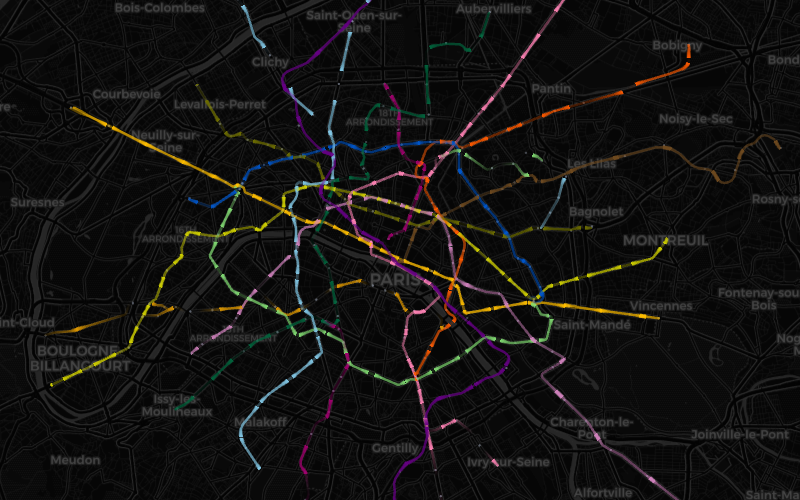
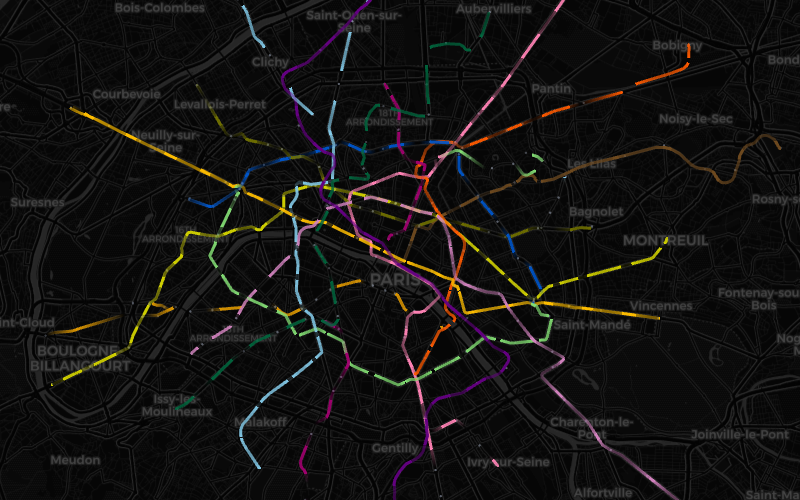
fix: stale url params across client navs, air clock timezone, about copy

diff --git a/apps/site/src/components/AirMap.tsx b/apps/site/src/components/AirMap.tsx
@@ -21,7 +21,10 @@ interface AirStation {
 
 interface AirMeta {
   stations: AirStation[];
-  pollutants: Record<string, { years: Record<string, number> }>;
+  pollutants: Record<
+    string,
+    { years: Record<string, { hours: number; start: number }> }
+  >;
 }
 
 // playback speeds: simulated hours per real second
@@ -78,9 +81,9 @@ function readParams() {
     time: p.get("t") ? +p.get("t")! : 8, // hours since Jan 1
   };
 }
-const params = readParams();
-
 export default function AirMap() {
+  // read once per mount (module-level reads go stale across client navs)
+  const [params] = useState(readParams);
   const containerRef = useRef<HTMLDivElement>(null);
   const clockRef = useRef<HTMLDivElement>(null);
   const sliderRef = useRef<HTMLInputElement>(null);
@@ -90,6 +93,7 @@ export default function AirMap() {
     poll: Poll;
     year: number;
     hours: number;
+    start: number;
     values: Uint8Array;
   } | null>(null);
   const [error, setError] = useState<string | null>(null);
@@ -132,8 +136,8 @@ export default function AirMap() {
   // load the selected pollutant/year series
   useEffect(() => {
     if (!meta) return;
-    const hours = meta.pollutants[poll]?.years[year];
-    if (!hours) return;
+    const info = meta.pollutants[poll]?.years[year];
+    if (!info) return;
     setSeries(null);
     const requested = { poll, year };
     fetch(`/air/${poll}-${year}.bin`)
@@ -144,8 +148,14 @@ export default function AirMap() {
       .then((buf) => {
         if (pollRef.current !== requested.poll || yearRef.current !== requested.year)
           return;
-        setSeries({ poll, year, hours, values: new Uint8Array(buf) });
-        timeRef.current = Math.min(timeRef.current, hours - 2);
+        setSeries({
+          poll,
+          year,
+          hours: info.hours,
+          start: info.start,
+          values: new Uint8Array(buf),
+        });
+        timeRef.current = Math.min(timeRef.current, info.hours - 2);
       })
       .catch((e: Error) => setError(e.message));
   }, [meta, poll, year]);
@@ -287,16 +297,18 @@ export default function AirMap() {
       }
       const t = timeRef.current;
       if (clockRef.current) {
-        const date = new Date(
-          Date.UTC(yearRef.current, 0, 1) + Math.floor(t) * 3600e3,
-        );
+        const start = seriesRef.current?.start;
         const locale = langRef.current === "fr" ? "fr-FR" : "en-GB";
-        clockRef.current.textContent =
-          date.toLocaleDateString(locale, {
-            weekday: "short",
-            day: "numeric",
-            month: "short",
-          }) + ` · ${String(date.getUTCHours()).padStart(2, "0")}:00`;
+        clockRef.current.textContent = start
+          ? new Date(start + Math.floor(t) * 3600e3).toLocaleString(locale, {
+              timeZone: "Europe/Paris",
+              weekday: "short",
+              day: "numeric",
+              month: "short",
+              hour: "2-digit",
+              minute: "2-digit",
+            })
+          : "--";
       }
       if (sliderRef.current && document.activeElement !== sliderRef.current)
         sliderRef.current.value = String(Math.round(t));
@@ -415,13 +427,15 @@ export default function AirMap() {
     timeRef.current = f * hours;
   };
 
-  // lockdown story: 17 March 2020, 08:00 (NO2 collapses within days)
+  // lockdown story: 17 March 2020, 08:00 Paris (NO2 collapses within days)
   const lockdown = () => {
+    const start = meta?.pollutants.no2?.years[2020]?.start;
+    if (!start) return;
     setPoll("no2");
     setYear(2020);
     setPlaying(true);
     setSpeed(24);
-    timeRef.current = (31 + 29 + 16) * 24 + 8;
+    timeRef.current = Math.max(0, (Date.UTC(2020, 2, 17, 7) - start) / 3600e3);
   };
 
   return (

diff --git a/apps/site/src/lib/siteStrings.ts b/apps/site/src/lib/siteStrings.ts
@@ -9,8 +9,8 @@ export const SITE: Record<
     tagline: string;
     fluxTitle: string;
     fluxDesc: string;
-    pulseTitle: string;
-    pulseDesc: string;
+    airTitle: string;
+    airDesc: string;
     noctTitle: string;
     noctDesc: string;
     aboutTitle: string;
@@ -24,15 +24,15 @@ export const SITE: Record<
     fluxTitle: "Flux - the transit network in motion",
     fluxDesc:
       "Every scheduled trip of a full day moves across the map: 20,000 métro, RER and tram runs, plus 90,000 buses one checkbox away.",
-    pulseTitle: "Respire - the air you breathe",
-    pulseDesc:
+    airTitle: "Respire - the air you breathe",
+    airDesc:
       "Seven years of hourly air quality breathing over the map: winter smog, clean windy days, and the 2020 lockdown clearing the sky in a week.",
     noctTitle: "Noctilien - night buses",
     noctDesc:
       "Heatmap of night-bus frequency: which neighbourhoods are served after midnight, and which are not.",
     aboutTitle: "About the data",
     aboutBody:
-      "Everything on this site is built from open data: scheduled timetables (GTFS) and ticket validation counts published by Île-de-France Mobilités, station and stop locations from the same portal, and the national address base for geocoding. Nothing is tracked and there is no backend: each visualization is precomputed into a static file, and each page shows the exact period its data covers.",
+      "Everything on this site is built from open data: scheduled timetables (GTFS) published by Île-de-France Mobilités, hourly air quality measurements from Airparif, and the national address base for geocoding. Nothing is tracked and there is no backend: each visualization is precomputed into a static file, and each page shows the exact period its data covers.",
     aboutRefresh:
       "Data is regenerated automatically twice a month, since published timetables only cover about 30 days ahead.",
   },
@@ -42,15 +42,15 @@ export const SITE: Record<
     fluxTitle: "Flux - le réseau en mouvement",
     fluxDesc:
       "Tous les trajets d'une journée se déplacent sur la carte : 20 000 courses de métro, RER et tramway, et 90 000 bus en option.",
-    pulseTitle: "Respire - l'air que vous respirez",
-    pulseDesc:
+    airTitle: "Respire - l'air que vous respirez",
+    airDesc:
       "Sept ans de qualité de l'air horaire qui respirent sur la carte : smog d'hiver, journées de vent, et le confinement 2020 qui purifie le ciel en une semaine.",
     noctTitle: "Noctilien - bus de nuit",
     noctDesc:
       "Carte de chaleur de la fréquence des bus de nuit : quels quartiers sont desservis après minuit, et lesquels ne le sont pas.",
     aboutTitle: "À propos des données",
     aboutBody:
-      "Tout ce site repose sur des données ouvertes : les horaires théoriques (GTFS) et les comptages de validations publiés par Île-de-France Mobilités, les emplacements des gares et arrêts du même portail, et la Base Adresse Nationale pour le géocodage. Aucun suivi, aucun backend : chaque visualisation est précalculée dans un fichier statique, et chaque page affiche la période exacte couverte par ses données.",
+      "Tout ce site repose sur des données ouvertes : les horaires théoriques (GTFS) publiés par Île-de-France Mobilités, les mesures horaires de qualité de l'air d'Airparif, et la Base Adresse Nationale pour le géocodage. Aucun suivi, aucun backend : chaque visualisation est précalculée dans un fichier statique, et chaque page affiche la période exacte couverte par ses données.",
     aboutRefresh:
       "Les données sont régénérées automatiquement deux fois par mois, car les horaires publiés ne couvrent qu'environ 30 jours.",
   },

diff --git a/apps/site/scripts/build-air-data.ts b/apps/site/scripts/build-air-data.ts
@@ -145,6 +145,7 @@ async function main() {
     poll: string;
     year: number;
     hours: number;
+    start: number; // epoch ms of the first hourly row (UTC)
     values: Uint8Array; // hours × stations, filled after master is complete
     columns: (number | null)[]; // csv column → master idx
     raw: string[][];
@@ -183,10 +184,15 @@ async function main() {
       if (dataRows.length < 1000 || matched < 10) {
         throw new Error(`${poll} ${year}: implausible data, aborting`);
       }
+      const start = Date.parse(String(dataRows[0][0]).replace(" ", "T"));
+      if (!Number.isFinite(start)) {
+        throw new Error(`${poll} ${year}: unparseable first timestamp`);
+      }
       files.push({
         poll,
         year,
         hours: dataRows.length,
+        start,
         values: new Uint8Array(0),
         columns,
         raw: dataRows,
@@ -197,7 +203,10 @@ async function main() {
   // --- encode: uint8 per station per hour --------------------------------------
   const meta = {
     stations: master,
-    pollutants: {} as Record<string, { years: Record<number, number> }>,
+    pollutants: {} as Record<
+      string,
+      { years: Record<number, { hours: number; start: number }> }
+    >,
   };
   for (const f of files) {
     const n = master.length;
@@ -214,7 +223,7 @@ async function main() {
     }
     writeFileSync(path.join(OUT_DIR, `${f.poll}-${f.year}.bin`), out);
     meta.pollutants[f.poll] ??= { years: {} };
-    meta.pollutants[f.poll].years[f.year] = f.hours;
+    meta.pollutants[f.poll].years[f.year] = { hours: f.hours, start: f.start };
   }
   if (unmatched.size) console.log("Unmatched labels:", [...unmatched].join(" | "));
   writeFileSync(path.join(OUT_DIR, "meta.json"), JSON.stringify(meta));

diff --git a/apps/site/src/components/noctilien/App.tsx b/apps/site/src/components/noctilien/App.tsx
@@ -37,13 +37,11 @@ export interface LayerToggles {
   routes: boolean;
 }
 
-// Read once at module load (the app is client-only) so first render can
-// restore a shared link.
-const initial = parseHash(
-  typeof window === "undefined" ? "" : window.location.hash,
-);
-
 export default function App() {
+  // read once per mount (module-level reads go stale across client navs)
+  const [initial] = useState(() =>
+    parseHash(typeof window === "undefined" ? "" : window.location.hash),
+  );
   const [data, setData] = useState<NoctilienData | null>(null);
   const [dataError, setDataError] = useState(false);
   const [lang, setLang] = useState<Lang>(loadLang);

diff --git a/apps/site/src/app/page.tsx b/apps/site/src/app/page.tsx
@@ -37,8 +37,8 @@ export default function Home() {
         <Link className="card" href="/air">
           {/* eslint-disable-next-line @next/next/no-img-element */}
           <img className="card-thumb" src="/thumbs/air.png" alt="" />
-          <h2>{s.pulseTitle}</h2>
-          <p>{s.pulseDesc}</p>
+          <h2>{s.airTitle}</h2>
+          <p>{s.airDesc}</p>
         </Link>
         <Link className="card" href="/noctilien">
           {/* eslint-disable-next-line @next/next/no-img-element */}
@@ -59,6 +59,8 @@ export default function Home() {
           <a href="https://transport.data.gouv.fr/datasets/reseau-urbain-et-interurbain-dile-de-france-mobilites">
             IDFM GTFS
           </a>
+          {" · "}
+          <a href="https://www.airparif.fr">airparif.fr</a>
           {" · "}
           <a href="https://adresse.data.gouv.fr">adresse.data.gouv.fr</a>
           {" · "}

diff --git a/apps/site/src/components/FlowMap.tsx b/apps/site/src/components/FlowMap.tsx
@@ -154,9 +154,11 @@ function readParams() {
     speed: p.get("speed") ? +p.get("speed")! : 60,
   };
 }
-const params = readParams();
-
 export default function FlowMap() {
+  // read once per MOUNT, not per module load: Next keeps modules alive
+  // across client-side navigations, so a module-level read would serve
+  // stale params on later visits to this page
+  const [params] = useState(readParams);
   const containerRef = useRef<HTMLDivElement>(null);
   const clockRef = useRef<HTMLDivElement>(null);
   const sliderRef = useRef<HTMLInputElement>(null);